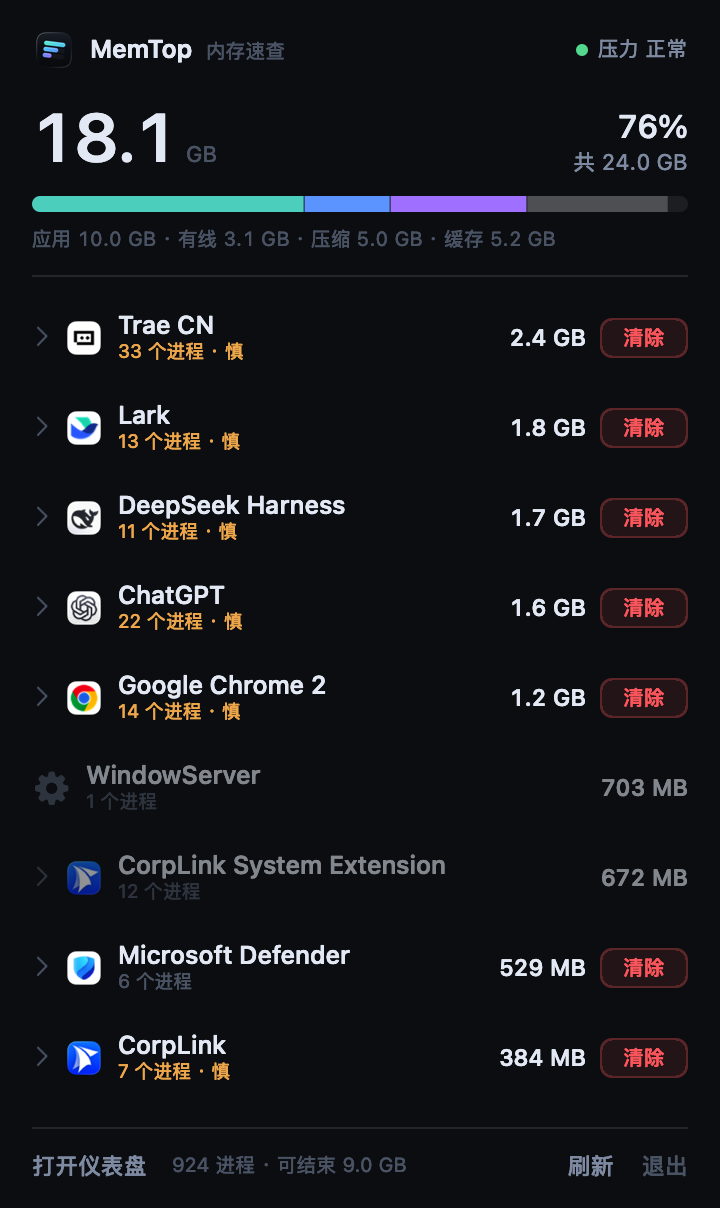
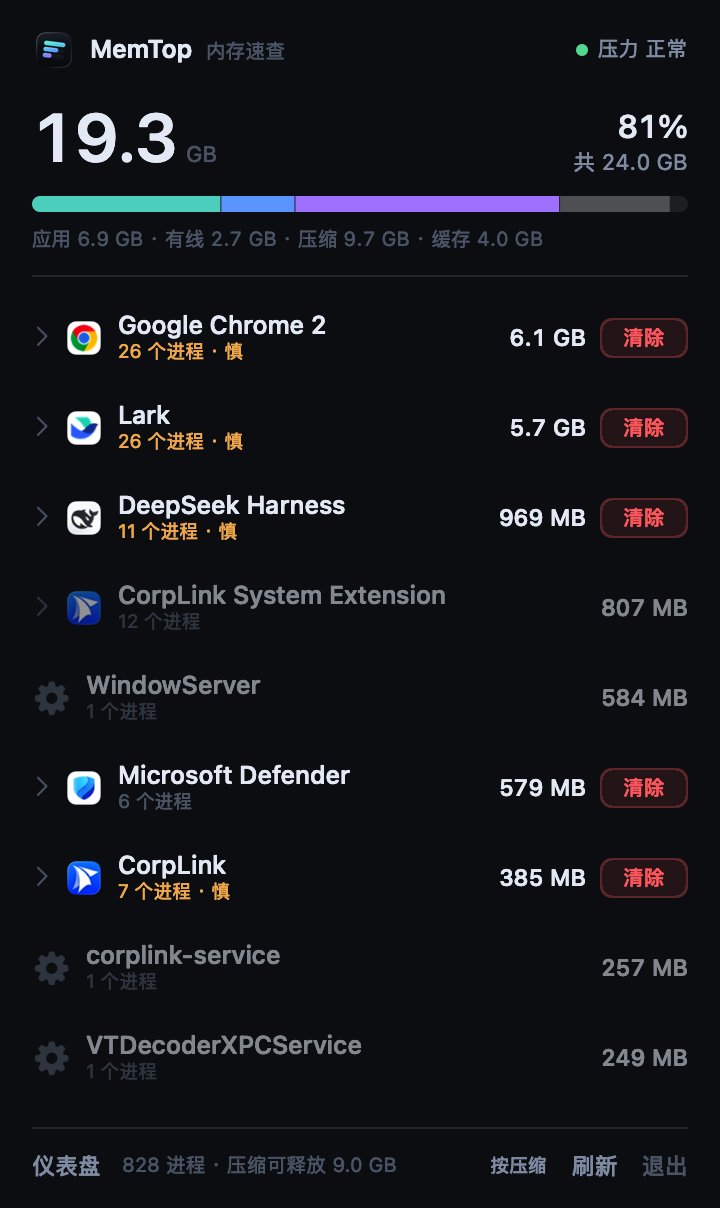
feat: 增加压缩内存可释放量，Web/菜单栏支持按压缩排序
内核管理压缩页，用户态无法直接释放；统计可结束进程占用的压缩页并在两端展示，引导结束大户回收。

diff --git a/memtop-bar/main.swift b/memtop-bar/main.swift
@@ -51,6 +51,7 @@ struct MTMemory: Decodable {
     let pressure: Int
     let pressure_label: String
     let reclaimable: Int
+    let compressed_killable: Int?
 }
 
 struct MTSnapshot: Decodable {
@@ -156,6 +157,13 @@ final class MTButton: NSButton {
     }
 
     @objc private func fire() { handler?() }
+
+    func setTitle(_ text: String, size: CGFloat = 9.5, tint: NSColor = MT.dim) {
+        attributedTitle = NSAttributedString(string: text, attributes: [
+            .foregroundColor: tint,
+            .font: NSFont.systemFont(ofSize: size, weight: .medium),
+        ])
+    }
 
     override func mouseEntered(with event: NSEvent) {
         layer?.backgroundColor = NSColor.white.withAlphaComponent(0.08).cgColor
@@ -279,6 +287,9 @@ final class PanelController: NSViewController {
 
     private var expanded = Set<String>()
     private var selected = Set<Int>()
+    private var sortByCompressed = false
+    private var explainedCompressed = false
+    private var sortButton: MTButton!
     private var snapshot: MTSnapshot?
     private var timer: Timer?
     private var loading = false
@@ -379,15 +390,22 @@ final class PanelController: NSViewController {
         scroll.documentView = listStack
 
         // ---- 脚注
-        let openButton = MTButton("打开仪表盘") { [weak self] in self?.openDashboard() }
+        let openButton = MTButton("仪表盘") { [weak self] in self?.openDashboard() }
+        openButton.setContentCompressionResistancePriority(.required, for: .horizontal)
         let refreshButton = MTButton("刷新") { [weak self] in self?.refresh(force: true) }
         let quitButton = MTButton("退出", tint: MT.faint) { [weak self] in self?.onQuit?() }
+        sortButton = MTButton("按压缩", size: 9.5, tint: MT.dim) { [weak self] in self?.toggleSortMode() }
+        sortButton.toolTip = "按压缩内存占用排序（结束进程可释放）"
+        sortButton.setContentCompressionResistancePriority(.required, for: .horizontal)
+        refreshButton.setContentCompressionResistancePriority(.required, for: .horizontal)
+        quitButton.setContentCompressionResistancePriority(.required, for: .horizontal)
+        footNote.setContentCompressionResistancePriority(.defaultLow, for: .horizontal)
         let footSpacer = NSView()
         footSpacer.setContentHuggingPriority(.init(1), for: .horizontal)
-        let foot = NSStackView(views: [openButton, footNote, footSpacer, refreshButton, quitButton])
+        let foot = NSStackView(views: [openButton, footNote, footSpacer, sortButton, refreshButton, quitButton])
         foot.orientation = .horizontal
         foot.alignment = .centerY
-        foot.spacing = 10
+        foot.spacing = 8
         foot.translatesAutoresizingMaskIntoConstraints = false
 
         let divider1 = NSBox()
@@ -568,15 +586,19 @@ final class PanelController: NSViewController {
             (Double(mem.cached) / Double(max(1, mem.total)), NSColor.white.withAlphaComponent(0.22)),
         ]
         legend.stringValue = "应用 \(MT.size(mem.app)) · 有线 \(MT.size(mem.wired)) · 压缩 \(MT.size(mem.compressed)) · 缓存 \(MT.size(mem.cached))"
-        footNote.stringValue = "\(snap.processes) 进程 · 可结束 \(MT.size(mem.reclaimable))"
+        footNote.stringValue = "\(snap.processes) 进程 · 压缩可释放 \(MT.size(mem.compressed_killable ?? 0))"
+        footNote.toolTip = "可结束进程当前占用的压缩页合计；结束它们才会回收这部分内存"
 
         let top = Array(snap.groups.prefix(40))
-        rebuildList(top)
-        if let idx = debugExpand, idx < top.count {
+        let ordered = sortByCompressed
+            ? top.sorted { $0.compressed > $1.compressed }
+            : top
+        rebuildList(ordered)
+        if let idx = debugExpand, idx < ordered.count {
             debugExpand = nil
-            expanded.insert(top[idx].key)
+            expanded.insert(ordered[idx].key)
             if debugSelect > 0 {
-                let g = top[idx]
+                let g = ordered[idx]
                 selected.formUnion(g.members.filter { !$0.protected }.prefix(debugSelect).map { $0.pid })
             }
             rebuildList(top)
@@ -637,14 +659,18 @@ final class PanelController: NSViewController {
         let icon = MTIconView(bundle: g.bundle, name: g.name, size: 20)
 
         let name = MT.label(g.name, size: 12.5, weight: .medium)
-        let sub = MT.label("\(g.members.count) 个进程" + (g.risk == "caution" ? " · 慎" : ""),
+        let subText = sortByCompressed
+            ? "共 \(MT.size(g.footprint)) · \(g.members.count) 个进程"
+            : "\(g.members.count) 个进程"
+        let sub = MT.label(subText + (g.risk == "caution" ? " · 慎" : ""),
                            size: 9.5, color: g.risk == "caution" ? MT.amber : MT.faint)
         let nameBox = NSStackView(views: [name, sub])
         nameBox.orientation = .vertical
         nameBox.spacing = 0
         nameBox.alignment = .leading
 
-        let size = MT.label(MT.size(g.footprint), size: 11.5, weight: .medium, mono: true)
+        let shownValue = sortByCompressed ? g.compressed : g.footprint
+        let size = MT.label(MT.size(shownValue), size: 11.5, weight: .medium, mono: true)
         size.alignment = .right
         size.widthAnchor.constraint(equalToConstant: 58).isActive = true
 
@@ -814,6 +840,30 @@ final class PanelController: NSViewController {
         batchLabel.stringValue = visible ? "已选 \(chosen.count) 个 · ≈ \(MT.size(total))" : ""
         batchKillButton.isEnabled = visible
         batchKillButton.alphaValue = visible ? 1 : 0.35
+    }
+
+    func enableCompressedSort() {
+        sortByCompressed = true
+        sortButton?.setTitle("按内存", tint: MT.teal)
+        if let snap = snapshot {
+            let top = Array(snap.groups.prefix(40))
+            rebuildList(top.sorted { $0.compressed > $1.compressed })
+        }
+    }
+
+    private func toggleSortMode() {
+        sortByCompressed.toggle()
+        sortButton.setTitle(sortByCompressed ? "按内存" : "按压缩", tint: sortByCompressed ? MT.teal : MT.dim)
+        if let snap = snapshot {
+            let top = Array(snap.groups.prefix(40))
+            rebuildList(sortByCompressed ? top.sorted { $0.compressed > $1.compressed } : top)
+        }
+        if sortByCompressed && !explainedCompressed {
+            explainedCompressed = true
+            alert("按压缩排序",
+                  "压缩内存由内核管理，用户态无法直接释放。这里按每个应用占用的压缩页排序；结束进程后，它占用的压缩页才会被回收。",
+                  style: .informational)
+        }
     }
 
     private func batchKillSelected() {
@@ -1276,10 +1326,14 @@ if let idx = args.firstIndex(of: "--snapshot"), idx + 1 < args.count {
     if let i = args.firstIndex(of: "--select"), i + 1 < args.count, let n = Int(args[i + 1]) {
         controller.debugSelect = n
     }
+    let compressedMode = args.contains("--compressed")
     let v = controller.view
     v.frame = NSRect(x: 0, y: 0, width: 360, height: 604)
     v.layoutSubtreeIfNeeded()
     controller.refresh(force: true)
+    if compressedMode {
+        DispatchQueue.main.asyncAfter(deadline: .now() + 1.2) { controller.enableCompressedSort() }
+    }
     let wait = args.firstIndex(of: "--wait").flatMap { i -> Double? in
         i + 1 < args.count ? Double(args[i + 1]) : nil
     } ?? 2.6

diff --git a/memtop/web/app.js b/memtop/web/app.js
@@ -130,9 +130,14 @@
         (Math.max(0, Math.min(100, fmtPct(mem.free + (mem.total - sum), mem.total)))).toFixed(2) + "%";
     }
 
-    $("#legend").innerHTML = parts.map(([cls, label, v]) =>
-      '<li><i class="' + cls + '"></i><span>' + label + "</span><b>" + fmtSize(v) + "</b></li>"
-    ).join("");
+    $("#legend").innerHTML = parts.map(([cls, label, v]) => {
+      const sortable = cls === "compressed" ? ' data-sort="compressed" title="按压缩占用排序"' :
+        cls === "app" ? ' data-sort="mem" title="按内存占用排序"' : "";
+      const active = (state.sort === "compressed" && cls === "compressed") ||
+        (state.sort === "mem" && cls === "app") ? " active" : "";
+      return '<li class="' + active + '"' + sortable + '><i class="' + cls + '"></i><span>' +
+        label + "</span><b>" + fmtSize(v) + "</b></li>";
+    }).join("");
 
     $("#swapText").textContent = mem.swap_total > 0
       ? fmtSize(mem.swap_used) + " / " + fmtSize(mem.swap_total)
@@ -473,6 +478,8 @@
 
       const reclaim = data.memory.reclaimable || 0;
       $("#reclaimText").textContent = fmtSize(reclaim);
+      $("#compressRelease").textContent = fmtSize(data.memory.compressed_killable || 0);
+      $("#compressRelease").title = "结束这些进程可回收的压缩页；压缩本身由内核管理，无法直接释放";
       $("#reclaimText").title = "当前用户可结束的进程合计（含共享内存，偏大）";
       $("#procText").textContent = data.processes + " 个";
 
@@ -536,6 +543,19 @@
       tickFreshness();
       schedule();
       if (!state.paused) load();
+    });
+
+    $("#legend").addEventListener("click", (e) => {
+      const li = e.target.closest("li[data-sort]");
+      if (!li) return;
+      state.sort = li.dataset.sort;
+      state.limit = 150;
+      $$("#sortSeg button").forEach((x) => x.classList.toggle("on", x.dataset.sort === state.sort));
+      renderList();
+      if (state.sort === "compressed" && !state.compressedExplained) {
+        state.compressedExplained = true;
+        toast("压缩内存由内核管理，用户态无法直接释放；按压缩排序后结束进程，才能回收对应的压缩页。", "info");
+      }
     });
 
     $$("#sortSeg button").forEach((b) => b.addEventListener("click", () => {
@@ -676,6 +696,11 @@
 
   async function boot() {
     bind();
+    const sortParam = new URLSearchParams(location.search).get("sort");
+    if (["mem", "compressed", "name"].includes(sortParam)) {
+      state.sort = sortParam;
+      $$("#sortSeg button").forEach((x) => x.classList.toggle("on", x.dataset.sort === sortParam));
+    }
     state.fetchedAt = Date.now();
     await load();
     schedule();

diff --git a/memtop/web/style.css b/memtop/web/style.css
@@ -328,6 +328,9 @@ body {
   gap: 6px 10px;
 }
 .legend li { display: flex; align-items: center; gap: 7px; min-width: 0; font-size: 11.5px; color: var(--dim); }
+.legend li[data-sort] { cursor: pointer; border-radius: 6px; padding: 2px 4px; margin: -2px -4px; transition: background 0.15s ease, color 0.15s ease; }
+.legend li[data-sort]:hover { background: rgba(255, 255, 255, 0.05); color: var(--text); }
+.legend li.active { color: var(--text); }
 .legend i { width: 8px; height: 8px; border-radius: 3px; flex: 0 0 auto; }
 .legend i.app { background: #57d6c8; }
 .legend i.wired { background: #6da8ff; }
@@ -340,7 +343,7 @@ body {
 .facts {
   margin-top: auto;
   display: grid;
-  grid-template-columns: repeat(3, minmax(0, 1fr));
+  grid-template-columns: repeat(4, minmax(0, 1fr));
   gap: 10px;
   padding-top: 14px;
   border-top: 1px solid var(--line);

diff --git a/memtop/web/index.html b/memtop/web/index.html
@@ -92,6 +92,9 @@
         <div class="fact"><span>交换</span><b id="swapText">—</b></div>
         <div class="fact"><span>进程</span><b id="procText">—</b></div>
         <div class="fact"><span>可结束合计</span><b id="reclaimText">—</b></div>
+        <div class="fact" title="这些进程当前占用的压缩页；结束它们才能真正回收">
+          <span>可释放压缩</span><b id="compressRelease">—</b>
+        </div>
       </div>
     </article>
   </section>

diff --git a/memtop/memtop.py b/memtop/memtop.py
@@ -47,7 +47,7 @@ from http.server import BaseHTTPRequestHandler, ThreadingHTTPServer
 from dataclasses import dataclass, field
 from typing import Dict, List, Optional, Sequence, Set, Tuple
 
-VERSION = "1.1.0"
+VERSION = "1.2.0"
 HOME = os.path.expanduser("~")
 CONFIG_DIR = os.path.join(HOME, ".config", "memtop")
 PROTECT_FILE = os.path.join(CONFIG_DIR, "protect.txt")
@@ -548,6 +548,11 @@ def reclaimable(snap: Snapshot) -> int:
     return sum(m.footprint for g in snap.groups for m in g.members if not m.protected)
 
 
+def compressed_reclaimable(snap: Snapshot) -> int:
+    """可结束进程当前占用的压缩页；结束它们才能真正回收这部分。"""
+    return sum(m.compressed for g in snap.groups for m in g.members if not m.protected)
+
+
 def killable_members(group: Group) -> List[Proc]:
     return [m for m in group.members if not m.protected]
 
@@ -707,6 +712,7 @@ def render_json(snap: Snapshot) -> str:
             "swap_total": mem.swap_total, "swap_used": mem.swap_used,
             "pressure": mem.pressure, "pressure_label": PRESSURE_LABEL.get(mem.pressure),
             "reclaimable": reclaimable(snap),
+            "compressed_killable": compressed_reclaimable(snap),
         },
         "processes": len(snap.procs),
         "groups": [{
@@ -1481,6 +1487,7 @@ def cmd_pressure(args) -> int:
     print("交换       %s / %s" % (human(mem.swap_used), human(mem.swap_total)))
     print("压力       %s" % PRESSURE_LABEL.get(mem.pressure, "?"))
     print("可结束进程合计 ≈ %s" % human(reclaimable(snap)))
+    print("其中压缩内存   ≈ %s（结束进程才可回收）" % human(compressed_reclaimable(snap)))
     return 0
 
 
@@ -1567,6 +1574,7 @@ def snapshot_json(snap: Snapshot, state: "WebState") -> dict:
             "pressure": mem.pressure,
             "pressure_label": PRESSURE_LABEL.get(mem.pressure, "未知"),
             "reclaimable": reclaimable(snap),
+            "compressed_killable": compressed_reclaimable(snap),
         },
         "processes": len(snap.procs),
         "groups": [group_json(g) for g in snap.groups],

diff --git a/README.md b/README.md
@@ -71,7 +71,7 @@ cd memtop-bar && ./install.sh   # 菜单栏 App（需要 Command Line Tools）
 ```
 
 菜单栏 App 也可以直接从 [Releases](https://github.com/Dacong0304/memtop/releases)
-下载 `MemTopBar-1.1.0.zip`，解压后拖进 `~/Applications`。
+下载 `MemTopBar-1.2.0.zip`，解压后拖进 `~/Applications`。
 
 ## 用法
 
@@ -116,9 +116,24 @@ TUI 按键：`↑↓/jk` 移动、`Enter` 展开、`x` 结束、`/` 过滤、`s`
 | 缓存 | `File-backed pages`（系统可回收，不计入已用） |
 | 压力 | `kern.memorystatus_vm_pressure_level`：1 正常 / 2 警告 / 4 严重 |
 | 进程内存 | `phys_footprint`（top 的 MEM 列），不是 RSS |
+| 可释放压缩 | 可结束进程当前占用的压缩页合计 |
 
 「进程足迹合计」会大于「已用」：共享库、共享内存会被每个进程各算一次，活动监视器也是如此。
 所以「预计回收」只是上限，真实释放量通常更小。
+
+## 关于「压缩」内存
+
+「压缩」列是内核压缩后仍驻留在 RAM 里的页，不是浪费的重复数据——同样的内容不压缩会占更多内存。
+macOS 没有向用户态开放“解压/丢弃压缩页”的接口：`purge` 只清文件缓存且需要 root，也动不了
+compressor。真正能回收这部分内存的只有结束对应进程（或让系统换出到 swap）。
+
+所以 MemTop 没做“一键解压释放”这种假动作，而是把可回收量摆出来：
+
+- 统计口径增加 **「可释放压缩」**：可结束进程当前占用的压缩页；
+- **Web**：概览第四格直接显示该值；点图例里的「压缩」按压缩占用排序，结束大户即可回收；
+- **菜单栏**：页脚显示「压缩可释放」，点「按压缩 / 按内存」切换排序，行内数值随之切换为压缩值。
+
+![按压缩排序](memtop/docs/web-compressed.png)
 
 ## 目录结构
 

diff --git a/memtop/README.md b/memtop/README.md
@@ -172,6 +172,10 @@ memtop 统一用 `top` 的 MEM 列（同为 phys_footprint），并且用 `proc_
 | 缓存 | `File-backed pages`（系统可回收，不计入已用） |
 | 压力 | `kern.memorystatus_vm_pressure_level`：1 正常 / 2 警告 / 4 严重 |
 | 进程内存 | `phys_footprint`（top 的 MEM 列），不是 RSS |
+| 可释放压缩 | 可结束进程当前占用的压缩页合计 |
+
+压缩内存由内核管理，用户态没有“解压释放”的接口；结束进程才会回收其压缩页。
+Web 概览里的「可释放压缩」就是这个上限，点图例中的「压缩」可直接按压缩占用排序。
 
 「进程足迹合计」会大于「已用」：共享库、共享内存会被每个进程各算一次，
 活动监视器也是同样的情况。所以「预计回收」只是上限，真实释放量通常更小。

diff --git a/memtop-bar/README.md b/memtop-bar/README.md
@@ -41,7 +41,11 @@ App 启动时会按下面的顺序找它：
 | 底部「清空」 | 清空勾选 |
 | 子进程行尾 `✕` | 只结束这一个进程（单次确认） |
 | 右键菜单栏图标 | 打开面板 / 刷新 / 退出 |
-| 底部「打开仪表盘」 | 拉起 `memtop web` 并打开浏览器 |
+| 底部「仪表盘」 | 拉起 `memtop web` 并打开浏览器 |
+| 底部「按压缩 / 按内存」 | 切换排序；页脚同时显示「压缩可释放」 |
+
+压缩内存无法从用户态直接释放，页脚的「压缩可释放」是可结束进程当前占用的压缩页；
+点「按压缩」按压缩占用排序，行内数值也会切成压缩值，结束后回收。
 
 菜单栏标题显示 `68% 16.4G`，鼠标悬停有「已用 / 总量 / 压力」提示。
 面板每 2 秒刷新；结束进程后立即刷新。

diff --git a/CHANGELOG.md b/CHANGELOG.md
@@ -1,5 +1,12 @@
 # Changelog
 
+## v1.2.0 — 2026-11-23
+
+- 新增「可释放压缩」指标：可结束进程当前占用的压缩页合计
+- Web 概览第四格展示，点图例「压缩」即可按压缩占用排序
+- 菜单栏页脚展示「压缩可释放」，新增「按压缩 / 按内存」排序切换
+- 说明压缩内存由内核管理，用户态无法直接释放，只能通过结束进程回收
+
 ## v1.1.0 — 2026-11-23
 
 首个公开版本，包含三种形态：
